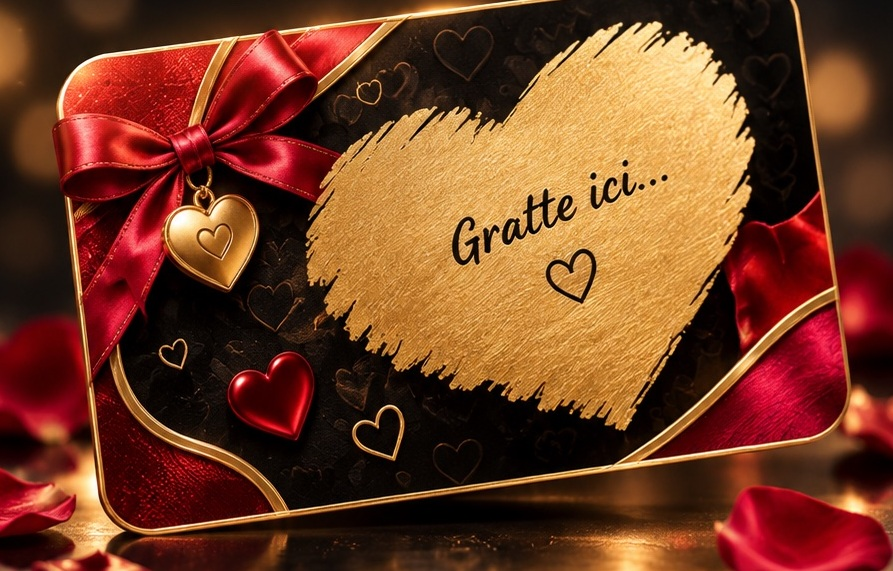
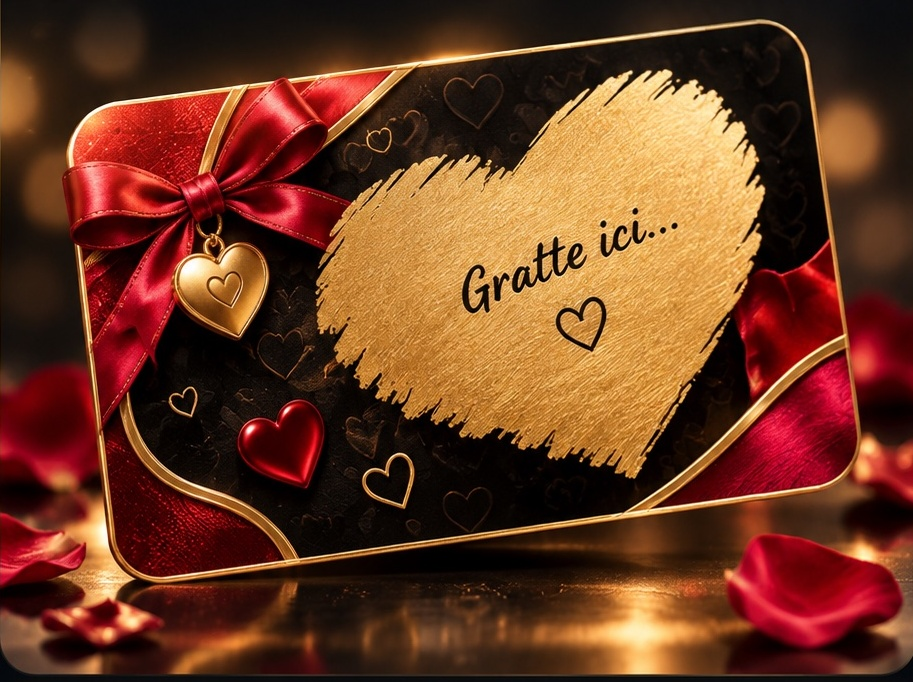
Carte d’aperçu complète, sans rognage ni chevauchement

diff --git a/src/components/surprise-compose.tsx b/src/components/surprise-compose.tsx
@@ -76,7 +76,7 @@ export function SurpriseCompose({
         <span className="size-10 shrink-0" aria-hidden />
       </header>
 
-      <div className="relative z-10 no-scrollbar flex-1 overflow-y-auto px-4 pb-28">
+      <div className="relative z-10 no-scrollbar flex-1 overflow-y-auto px-4 pb-36">
         <h1 className="mt-2 text-[26px] font-bold tracking-tight text-white">{t("surpriseCreateTitle")}</h1>
         <p className="mt-1 text-[13px] text-white/55">{t("surpriseCreateSub")}</p>
 
@@ -170,20 +170,20 @@ export function SurpriseCompose({
           </label>
         </div>
 
-        <div className="mt-3 overflow-hidden rounded-[22px] bg-[#0a0c12] p-2 ring-1 ring-[#ffd84d]/25">
+        <div className="mt-3 rounded-[22px] bg-[#0a0c12] p-2.5 ring-1 ring-[#ffd84d]/25">
           {live ? (
-            <div className="relative overflow-hidden rounded-[18px]">
+            <div className="relative">
               <img
                 src={PREVIEW_BY_DESIGN[design] ?? PREVIEW_BY_DESIGN.love}
                 alt=""
                 draggable={false}
                 decoding="async"
-                className="block h-auto w-full object-contain"
+                className="block h-auto w-full rounded-[16px] object-contain"
               />
               {text.trim() ? (
                 <div className="pointer-events-none absolute inset-0 flex items-center justify-center">
                   <p
-                    className="max-w-[42%] -translate-y-[4%] rotate-[-4deg] text-center font-serif text-[14px] font-bold italic leading-snug text-[#1a1208]"
+                    className="max-w-[40%] -translate-y-[6%] rotate-[-4deg] text-center font-serif text-[14px] font-bold italic leading-snug text-[#1a1208]"
                     style={{ textShadow: "0 1px 0 rgb(255 255 255 / 0.25)" }}
                   >
                     {text.trim().slice(0, 80)}
